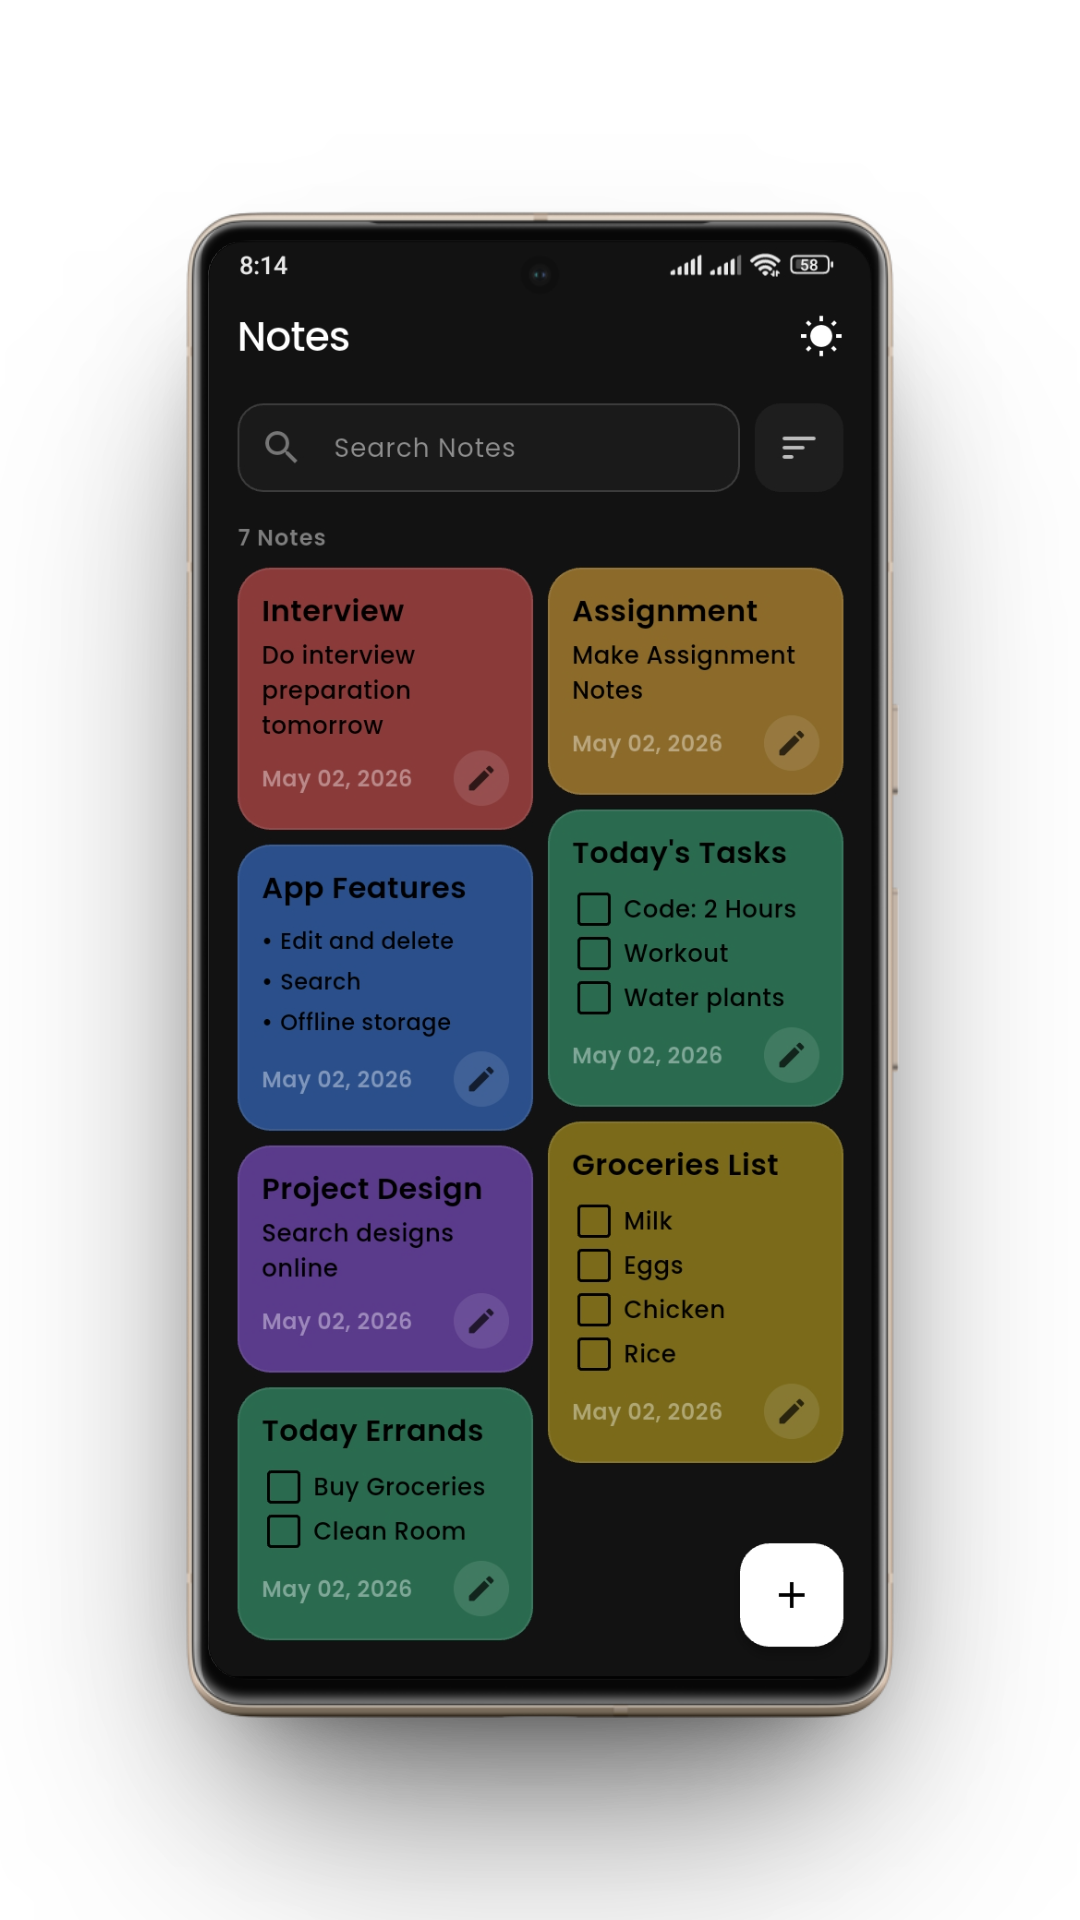
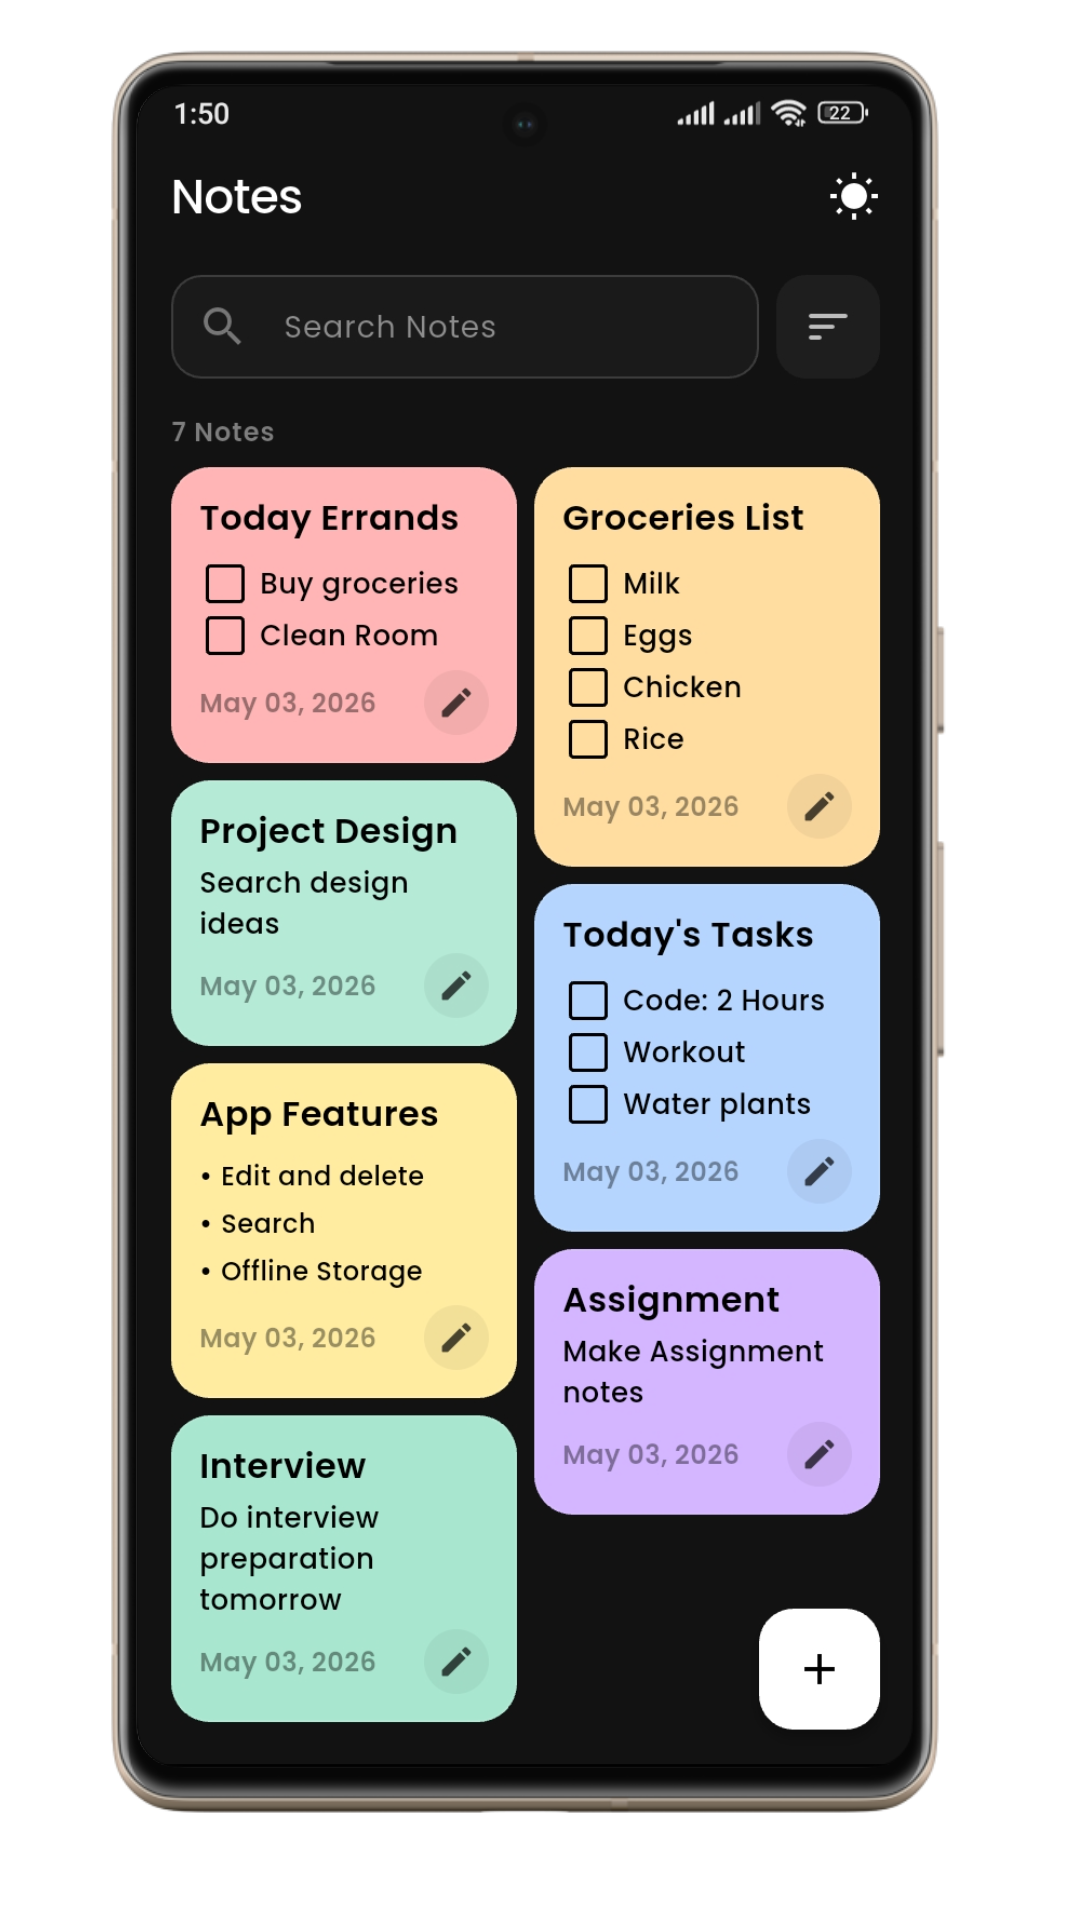
docs: add app preview image

diff --git a/README.md b/README.md
@@ -18,6 +18,8 @@ This project is inspired by a clean, monochromatic mobile app design found on Dr
 
 ## App Preview
 
+![App Preview](images/App%20Preview.png)
+
 | | |
 | --- | --- |
 | ![Home Dark](images/HomeScreenDark.png) | ![Detail Dark](images/DetailScreenDark.png) |